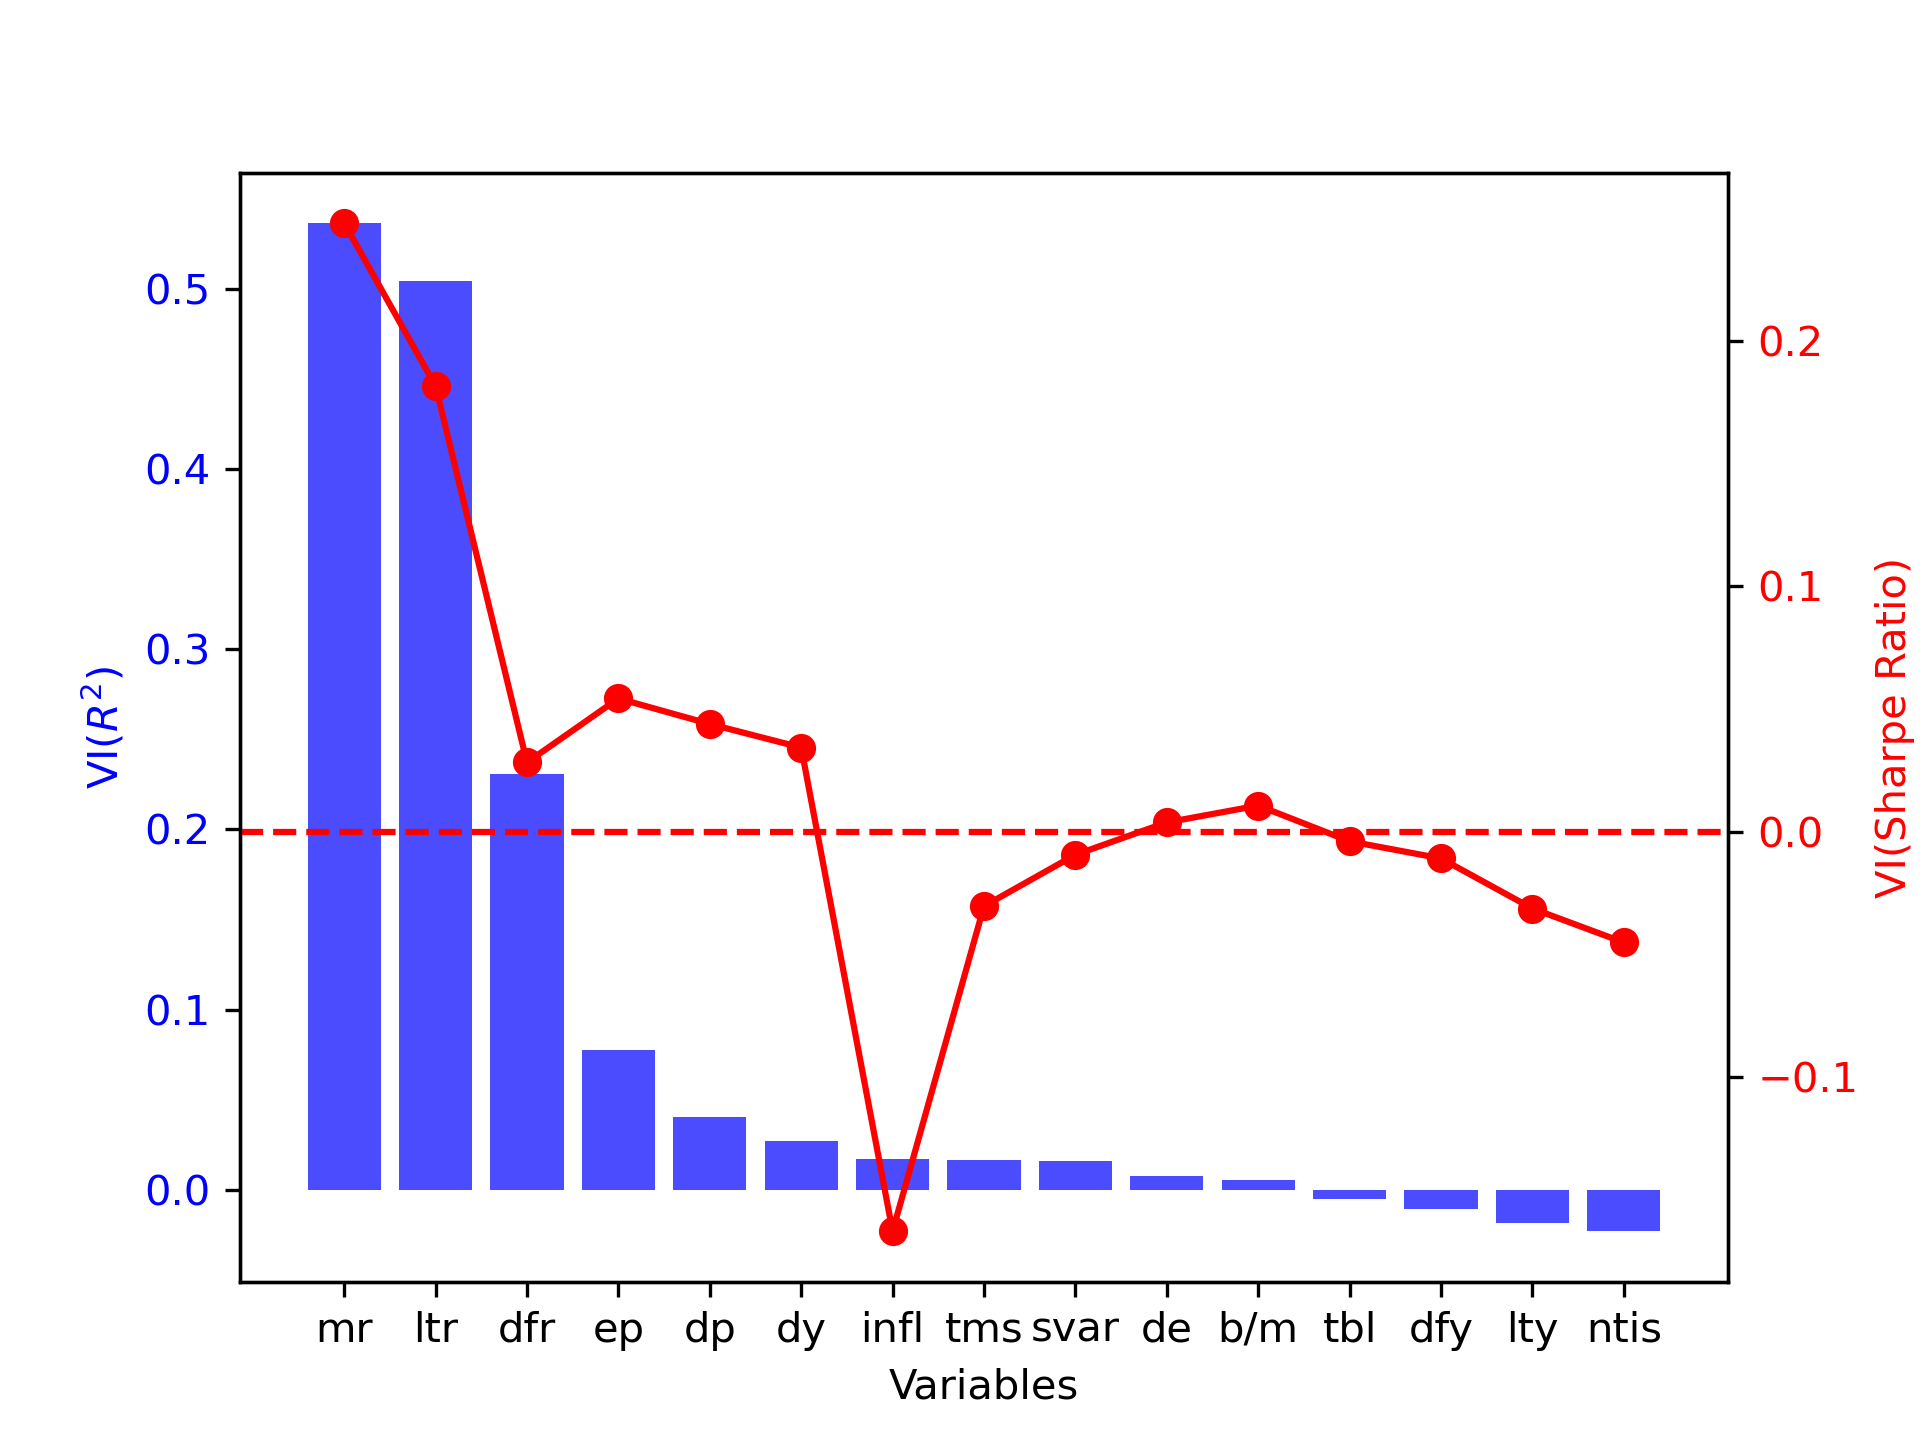
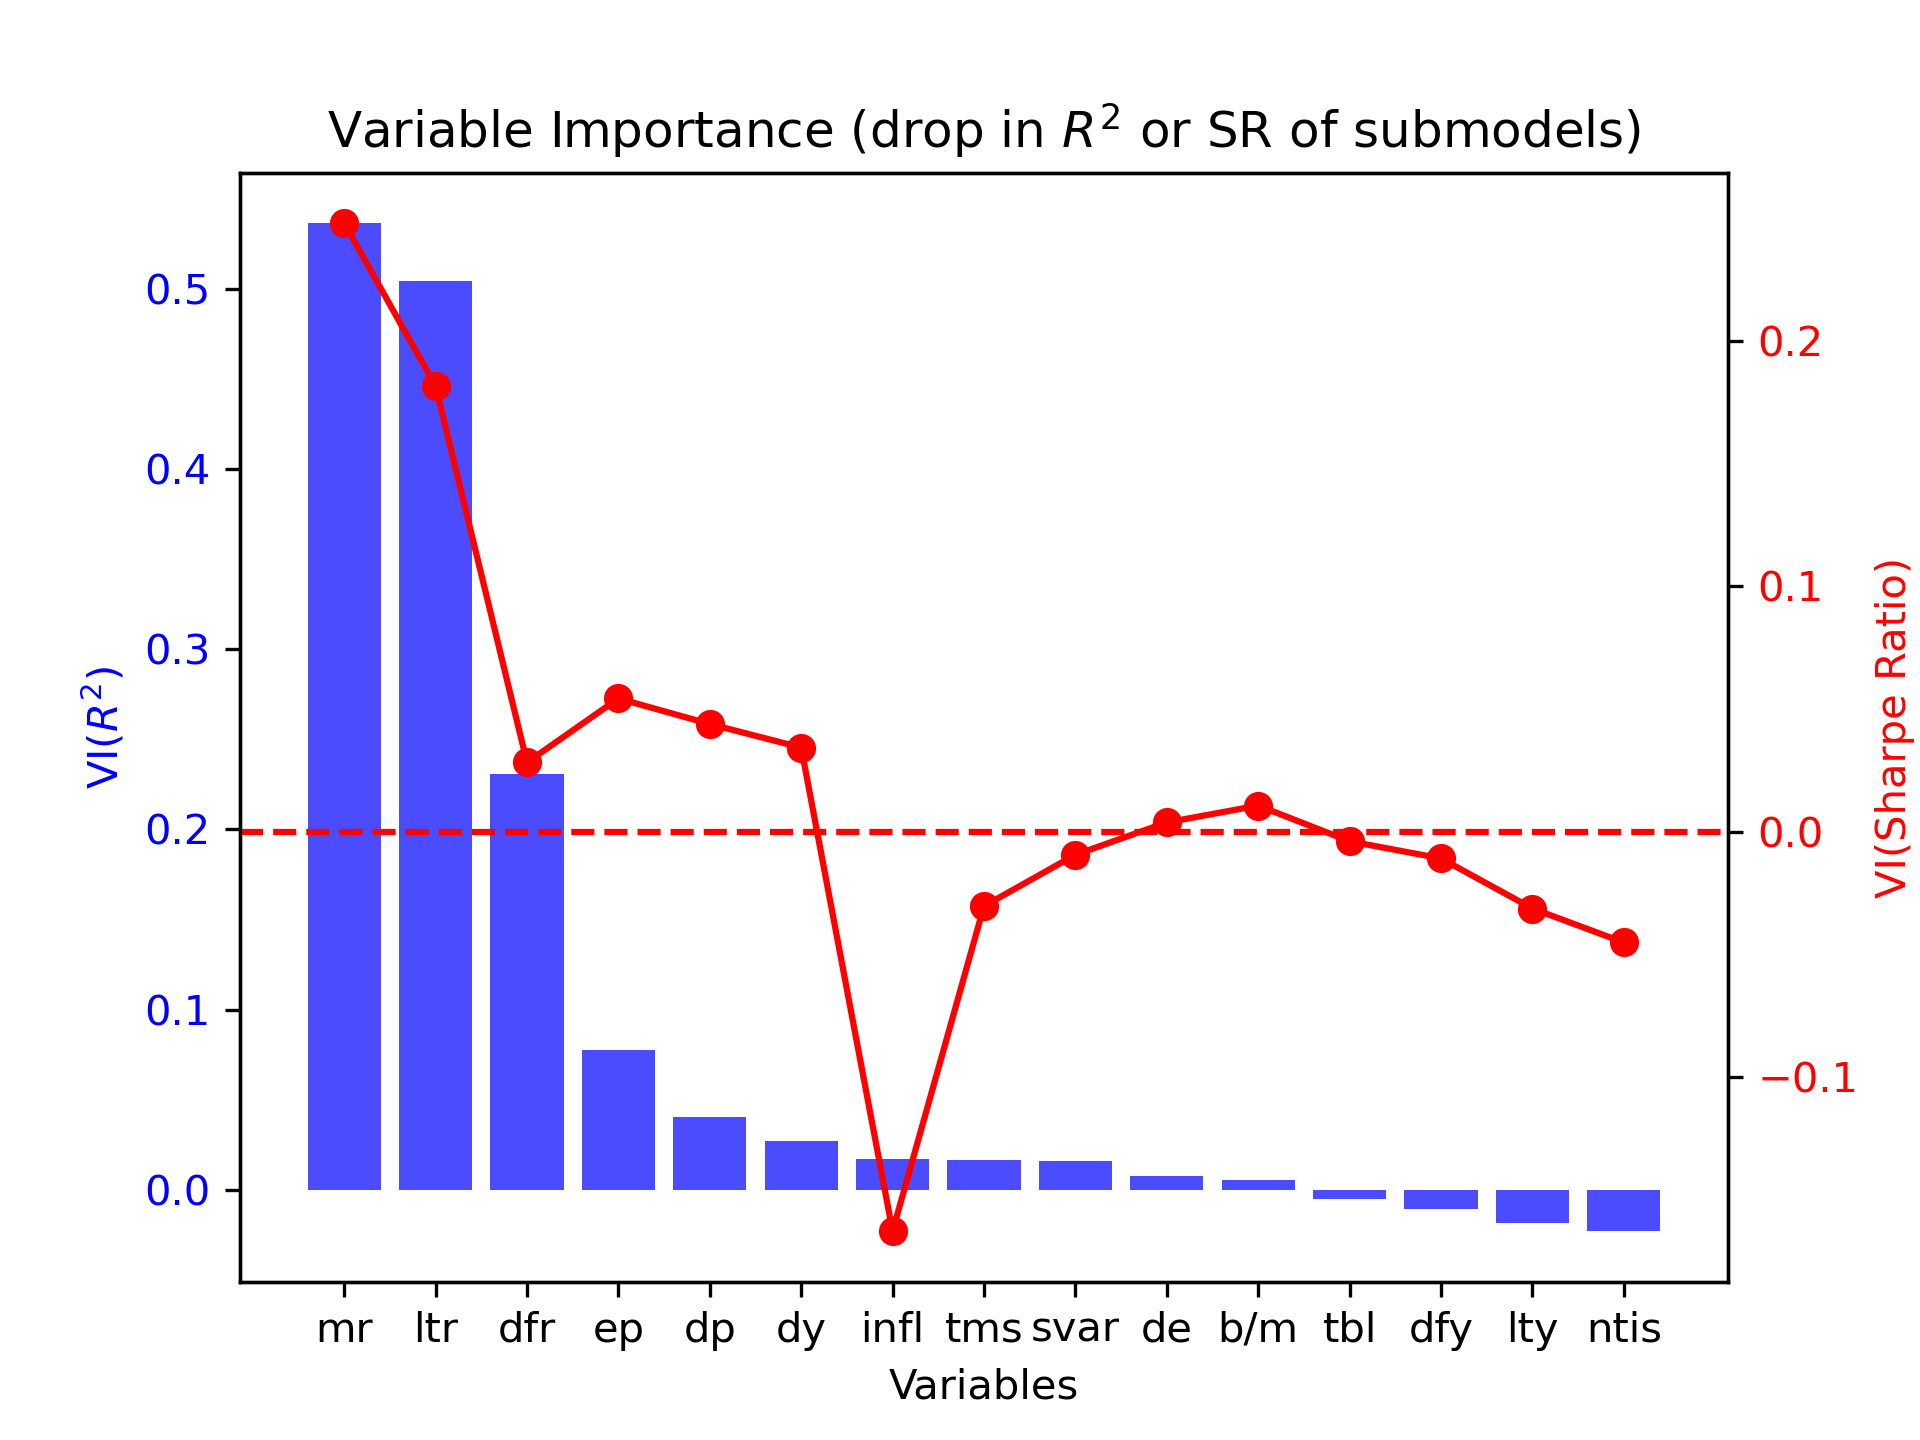
Update README

Changed region(s): [[0.1562, 0.0625, 0.8438, 0.125]]

diff --git a/README.md b/README.md
@@ -1,13 +1,109 @@
-# Reproduction of "The Virtue of Complexity"
+# Reproduction of "The Virtue of Complexity"  <!-- omit in toc -->
 
-This project reproduces main empirical results from Kelly, Malamud and Zhou, 2023, "[The virtue of complexity in return prediction](https://ssrn.com/abstract=4410125)".
+This project reproduces main empirical results from Kelly, Malamud and Zhou, 2024, "[The virtue of complexity in return prediction](https://doi.org/10.1111/jofi.13298)".
 
+## TLDR; <!-- omit in toc -->
 
-## Overview of the results
+The double descent appears in models for timing the stock market, given that the model is misspecified (ie. it uses only a subset of all informative features). The model used for the empirical analysis is a Ridge regression on Random Fourier Features (i.e. a two-layer NN with l2 regularization and random fixed weights in the hidden layer). Its expected OOS Sharpe Ratio improves monotonically as we increase the complexity (i.e. increase the number of RFFs). The trading strategy based on this model is trend-following, rarely goes short, and can time recessions. Thus, **don't worry about specifying the correct functional form of a trading strategy, but rather focus on selecting informative features, use l2, and go for the most complex model you can afford.**
 
-**Comments and conclusions to be added latter.**
+- [Introduction](#introduction)
+  - [General Setup](#general-setup)
+- [Simulation steps](#simulation-steps)
+  - [Data sources and preprocessing](#data-sources-and-preprocessing)
+  - [Simulation implementation](#simulation-implementation)
+- [Comparison of the original and reproduced results](#comparison-of-the-original-and-reproduced-results)
+  - [Main results: VoC curves](#main-results-voc-curves)
+    - [Figure 1: Sharpe ratio](#figure-1-sharpe-ratio)
+    - [Figure 2: Beta](#figure-2-beta)
+    - [Figure 3: ER](#figure-3-er)
+    - [Figure 4: R2](#figure-4-r2)
+    - [Figure 5: Volatility](#figure-5-volatility)
+    - [Figure 6: Alpha](#figure-6-alpha)
+    - [Figure 7: Alpha T-Statistic](#figure-7-alpha-t-statistic)
+    - [Figure 8: Information ratio](#figure-8-information-ratio)
+  - [Variable importance](#variable-importance)
+  - [Timing recessions](#timing-recessions)
+- [Code Overview](#code-overview)
+- [Project Organization](#project-organization)
 
-## Results Comparison
+## Introduction
+
+The common wisdom in econometrics advocates for the usage of a simpler model over a more complex one, given that the two models have similar performances. In the paper, the authors present a theoretical analysis of the expected out-of-sample risk of a model for return prediction for different model complexities. The analysis concludes that, under relatively broad assumptions, an increase in the complexity of overparametrized misspecified models guarantees improvement in the expected out-of-sample model performance. Additionally, the authors performed empirical analysis, which yielded results in agreement with the theoretical analysis of overparametrized misspecified models.
+
+### General Setup
+
+Let's assume there exists the true predictive model of returns 
+$$
+R_{t+1}= f(G_t) + \epsilon_{t+1}
+$$
+where $R_{t+1}$ is an asset return at time $t+1$, $G$ is a set of predictive signals, and $f$ is a smooth function. If it is known what signals are in the set $G$, we will call it "correctly specified model", otherwise, if only a subset of signals are known, we will call such a model "misspecified". In both cases, $f$ is an unknown function.
+
+We can try to approximate $f$ as
+$$
+f(G_t) \approx \sum_{i=1}^P S_{i,t}\beta_i
+$$
+where $S_{i,t} = \tilde{f}(\omega'_iG_t)$ is a nonlinear function, $\omega$ is a vector of weights. $P$ is the number of parameters $\beta_i$ of the model, and it will be used as a measure of the complexity of the model. As $P$ increases the approximation error decreases but the variance of the model will increase, leading to the well known problem of bias-variance trade-off. This would in theory lead to maximal variance as $P$ reaches the number of data points in the sample, $T$. For $P=T$ the model reaches zero in-sample loss, while the out-of-sample risk reaches its maximum.
+
+With the further increase in complexity, we enter into $P>T$ regime (also known as "interpolation regime"), where the out-of-sample risk of certain models will to decrease ("double descent" effect). For more on this topic see [TBA].
+
+In VoC paper authors provided the analysis of such an effect within the context of timing the stock market. There, the model is made to predict excess returns of SP500 index, and the prediction of the model is proportional to the position of the market timing strategy. In the proposition 5 and 6, the authors provided asymptotic results for the market timing strategy's expected returns, second moment of returns, SR, $R^2$, and leverage, in the case of $P,T,P_1 \rightarrow \infty$, but $P/T=c$ is fixed complexity, and $P_1/P=q$ is fixed ratio of informative and noninformative signals.
+
+## Simulation steps
+
+### Data sources and preprocessing
+
+For the reproduction of the results I used the same data as in the original paper, which is the dataset from Welch and Goyal (2022). Preprocessing steps consists of volatility standardization of variables, lagging independent variables, and generating Random Fourier Features (RFFs). Dependent variable, i.e. excess returns of S\&P500 index, are standardized by their trailing 12-month standard deviation. For returns, we calculate standard deviation from the uncentered second moment, not variance. Predictors are standardized using an expanding window historical standard deviation. For details on data preprocessing steps see the following notebook [01-mz-preprocessing.ipynb](./notebooks/01-mz-preprocessing.ipynb). Links towards data sources and notes on raw data are available at [input_data_notes.md](./docs/notes/input_data_notes.md)
+
+The second part of preprocessing is generating RFFs. A pair of RFFs is generated as:
+
+$$S_{i,t} = [\sin (A_{i,t}), \cos (A_{i,t})]', \qquad \omega_i' \sim i.i.d.N(0,I_{15\times15}) $$
+
+Where:
+
+- $A_{i,t} = \gamma \omega_i' G_t$, is a matrix of dimension $T \times P/2$
+- $S_{i,t}$ is the $i$-th pair of RFF at time $t$.
+- $\gamma$ is the scaling factor. We set $\gamma = 2$ as in \cite{voc}.
+- $\omega_i$ is the random vector, sampled from standard normal distribution.
+- $G_t$ is the input feature at time $t$.
+- $I_{15\times15}$ is the identity matrix of size $15\times15$.
+
+For details, see [02-mz-generate-RFF.ipynb](./notebooks/02-mz-generate-RFF.ipynb).
+
+### Simulation implementation
+
+The least-squares estimators with $l_2$ regularization can be written as:
+
+$$
+\hat{\beta}(z) = \left( zI + T^{-1} \sum_t S_t S_t' \right)^{-1} \frac{1}{T} \sum_t S_t R_{t+1}
+$$
+Where $z$ is the shrinkage parameter of ridge regression.
+
+The choice of method of computing the inverse matrix is critical for isolating double descent effects from noise of individual simulation runs. For more details on precision and speed of different solvers, see [03-mz-voc-curve.ipynb](./notebooks/03-mz-voc-curve.ipynb).
+
+Authors of the original paper use the following method for fitting the ridge regression. For underparametrized regime ($P<=T$), they use common MATLAB implementation of singular value decomposition, and the usual procedure for fitting regularized least square. For overparametrized regime, authors implemented slightly different procedure so that the SVD function is applied to $T^{-1} X X^\prime$. I used the same implementation via `scipy.linalg.svd`. Both, MATLAB and Python implementations of SVD use the same LAPACK backend, which is achieved by setting  `lapack\_driver ='gesvd'` in `scipy.linalg.svd`. Nonetheless, a slight differences in stability are observed, as well as a slower execution of Python procedure. The impact to model performance is still unknown.
+
+As in the original paper, we generate P=12,000 RFFs (6,000 pairs) for each seed. Subsets of those 12,000 RFFs are used for configuring models of different complexities. This is repeated for 1000 seeds, and final results are averaged over 1000 simulations.
+
+Procedure for generating VoC curves for one seed value:
+
+1. Generate 120000 RFFs using 'make\_ RFF'
+2. For $t \in \{12, \dots, len(S)\}$:
+   1. Standardize the RFFs by their standard deviation in the training sample i.e. sample $\{S_{t-T}, \dots S_{t-1}\}$ of the last $T$ observations, for $T \in \{12, 60, 120\}$. Also, standardize $S_{t}$ by the same standard deviation.
+   2. Estimate the model by ridge regression with $P\in \{2,\dots, 12000\}$ and ridge shrinkage parameter $log_{10}(z) \in \{−3,\dots, 3\}$.
+3. From the sequence of out-of-sample predictions and strategy returns from step 2. calculate:
+   1. average $||\hat{\beta}||^2$ across training samples,
+   2. out-of-sample $R^2$. Before calculating forecast errors, rescale forecasted returns back to the real scale (scale before standardization).
+   3. out-of-sample average return of the timing strategy
+   4. volatility of the timing strategy
+   5. Sharpe ratio of the timing strategy (annualized)
+   6. fit linear regression between rescaled strategy returns and actual returns. Record intercept as strategy's alpha, record its t statistic.
+   7. calculate information ratio as ratio between strategy's alpha and the standard deviation of residuals of the regression from the previous step.
+
+In order to calculate variable importance for each variable, we repeat the same process as described above but with leaving out one of 15 independent variables. This is repeated for each of 15 variable, and performance metrics ($R^2$ and Sharpe ratio) of submodels (model with a subset of 14 independent variables that go into RFFs generation) is calculated. This is done only for P=12,000; z=1000, and T=12. Relative changes in performance between full model and submodels is calculated. They are called VI($R^2$) and VI(Sharpe Ratio). 
+
+## Comparison of the original and reproduced results
+
+### Main results: VoC curves
 
 #### Figure 1: Sharpe ratio
 
@@ -65,20 +161,26 @@ Original Results             |  Reproduced Results
 <img src="./reports/figures/voc_figures/ir-t12.png" width="500">  |  <img src="./reports/figures/curves_voc_solver/ir-t12.png" width="520">
 
 
+### Variable importance
+
+Original Results             |  Reproduced Results
+:-------------------------:|:-------------------------:
+<img src="./reports/figures/voc_figures/vi.png" width="500">  |  <img src="./reports/figures/variable_importance/variable_importance.png" width="480">
 
 
-![Variable importance](./reports/figures/variable_importance/variable_importance.png)
+In preprocessing we lagged inflation twice: one period more than the authors of the original paper did. This made `infl` variable less informative, so much so that its variable importance measured by a decrease in Sharpe Ratio is negative, meaning that omitting this variable would improve SR. The increase in complexity in VoC setup leads to an improvement in performance, but the complexity must not be increased by the addition of uninformative variables. The model can't  Some kind of variable selection is still necessary.
+
+The importance of `mr` indicates the trend following behavior of the model. `ltr` (Long-Term Bond Returns) are important but long-term yields and the term spread are not. `dfr` is a difference between long-term corporate bond and long-term government bond returns. Again, yields are not important, but the returns on the bonds are. Seems like the model is capturing momentum in the bond market as well. `ep`, `dp` and `dy` (dividend/lagged prices) are important, but `de` is not. The first three variables are ratios of something to price (or lagged price), while `de` is not. Overall, seems like this model is mainly exploiting the momentum.
+
+
+### Timing recessions
 
 ![NBER recession timing](./reports/figures/curves_voc_solver/return_forecasts_avg.png)
+NBER recession indicator (gray vertical stripes) and 12-month smoothed average positions for P=12000, z=1000, T=12, 60, 120 strategies.
 
-
-
-
+Seems like the model is not that bad in timing recessions. This is to be further investigated.
 
 ## Code Overview
-
-
-
 
 There are two main parts of the project:
 
